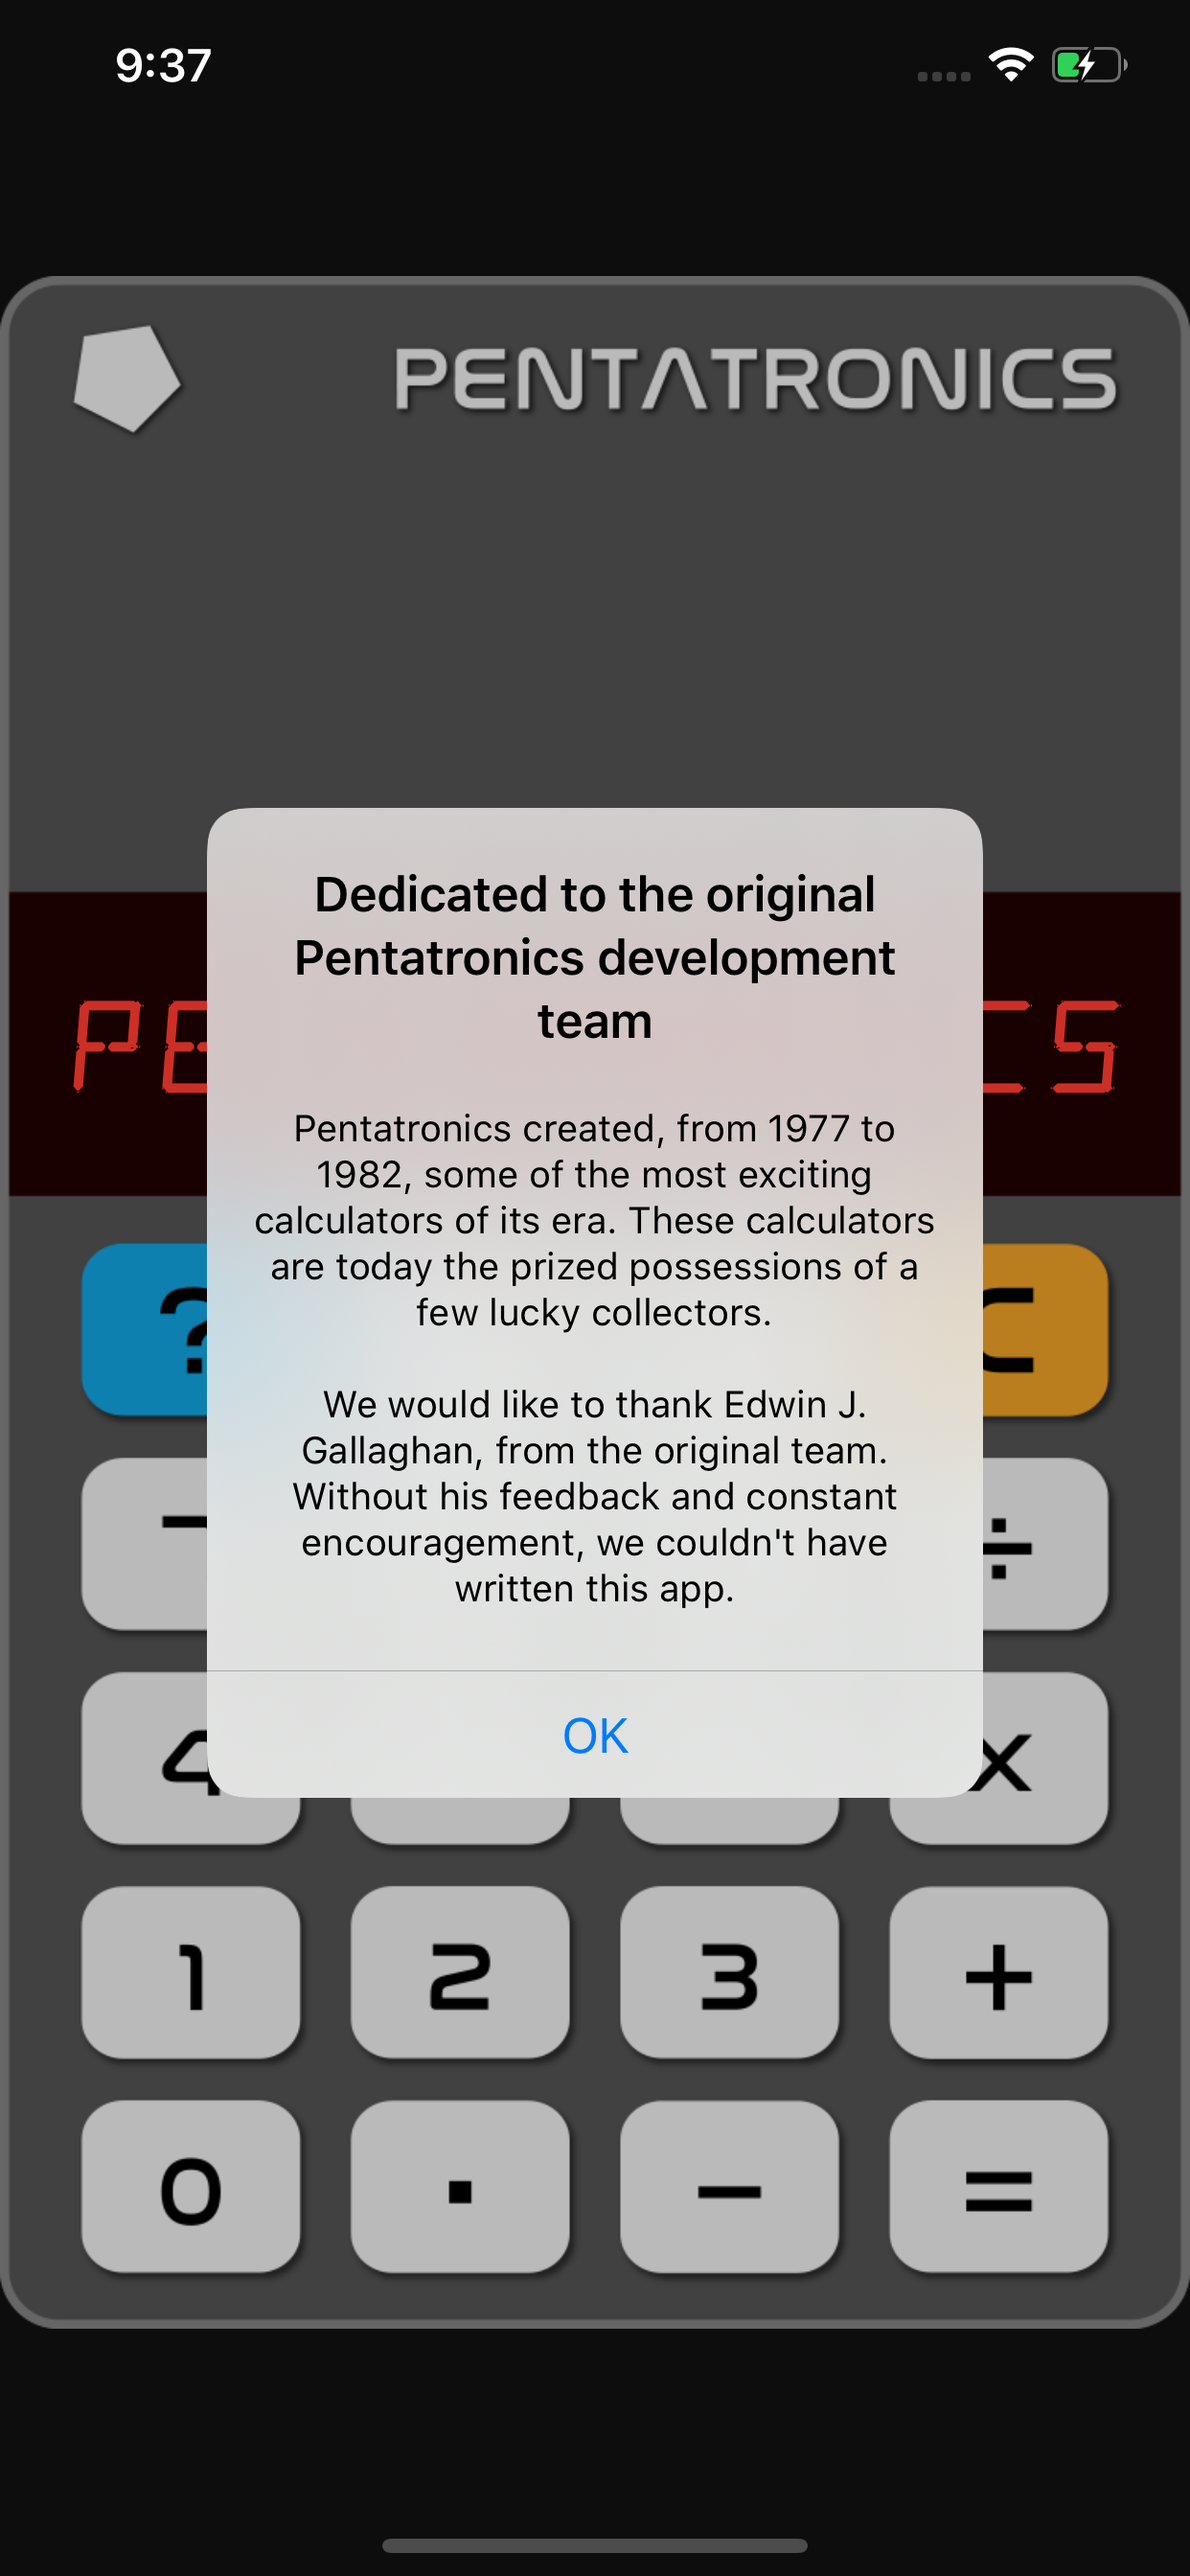
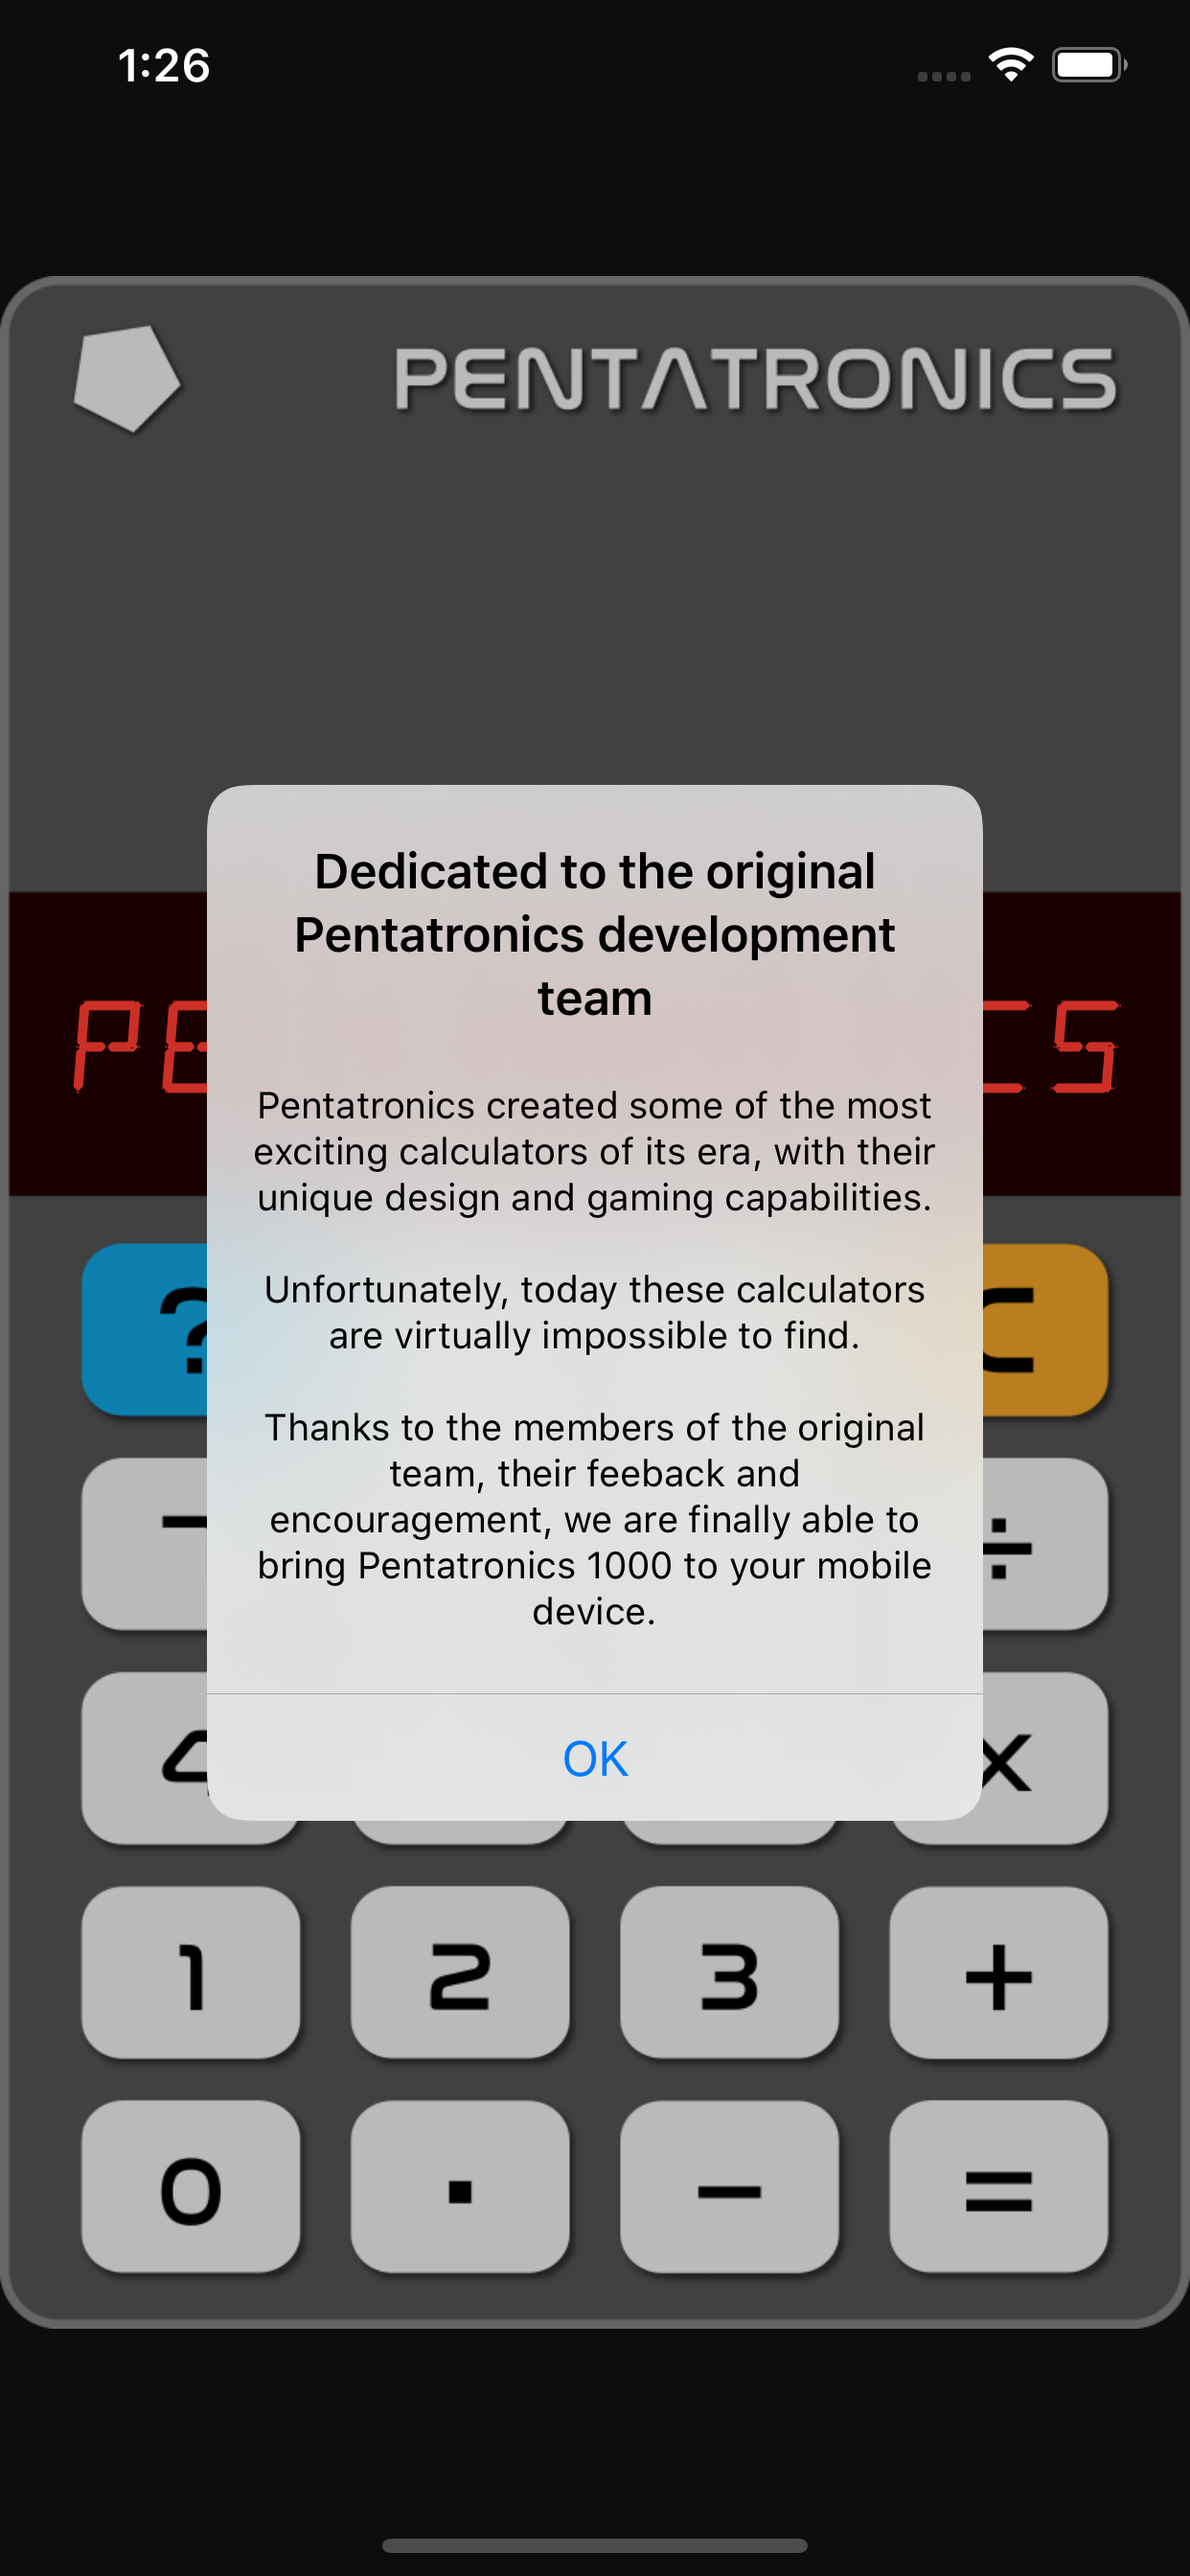
[ios] Tweak dedication text.

diff --git a/ios/penta1000/SceneDelegate.swift b/ios/penta1000/SceneDelegate.swift
@@ -31,7 +31,7 @@ class SceneDelegate: UIResponder, UIWindowSceneDelegate {
             if !didShowDedication {
                 let title = "Dedicated to the original Pentatronics development team"
                 let message =
-                "\nPentatronics created some of the most exciting calculators of its era, with their unique design and gaming capabilities.\n\nUnfortunately, today these calculators are virtually impossible to find.\n\nThanks to the members of the original team, their feeback and constant encouragement, we are finally able to bring back Pentatronics 1000."
+                "\nPentatronics created some of the most exciting calculators of its era, with their unique design and gaming capabilities.\n\nUnfortunately, today these calculators are virtually impossible to find.\n\nThanks to the members of the original team, their feeback and encouragement, we are finally able to bring Pentatronics 1000 to your mobile device."
                 let alert = UIAlertController(title: title,
                                               message: message,
                                               preferredStyle: UIAlertController.Style.alert)
